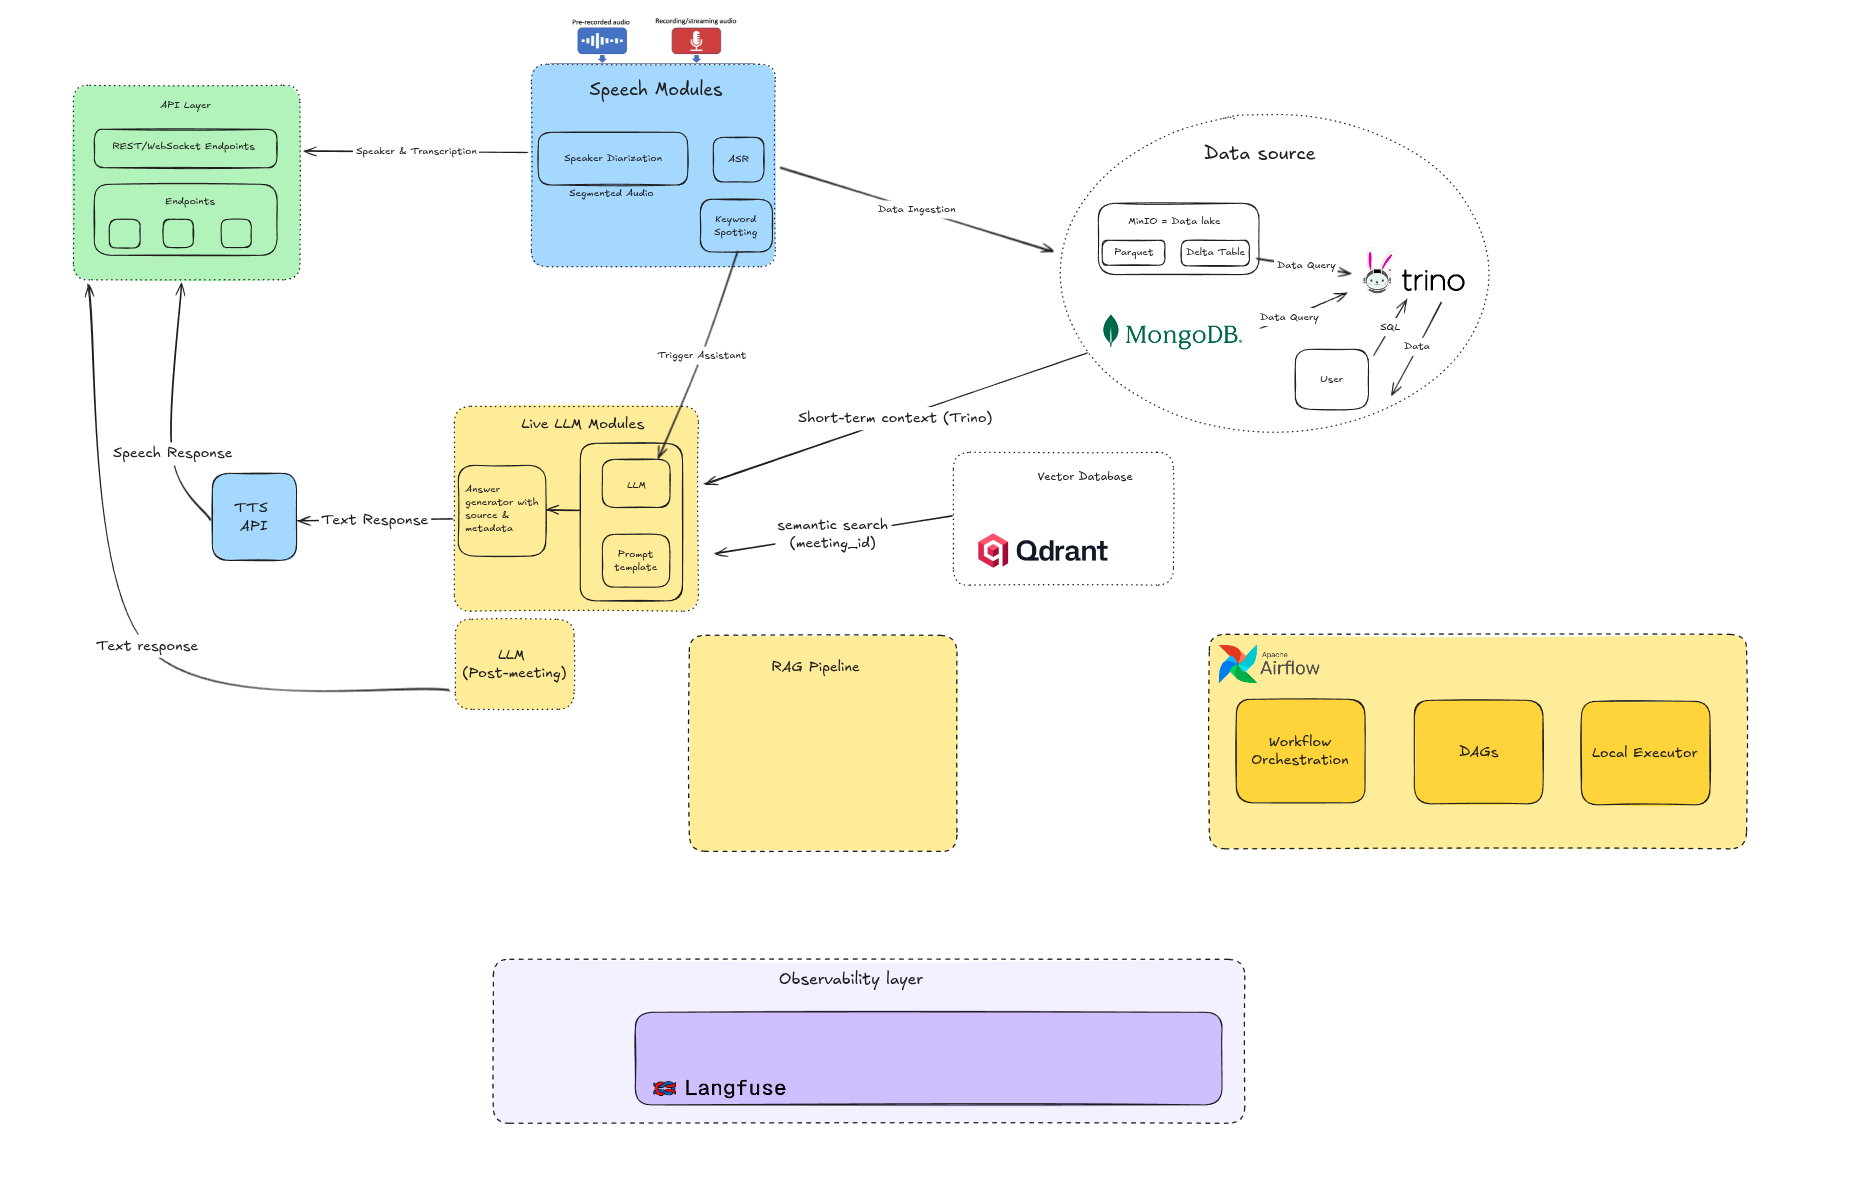
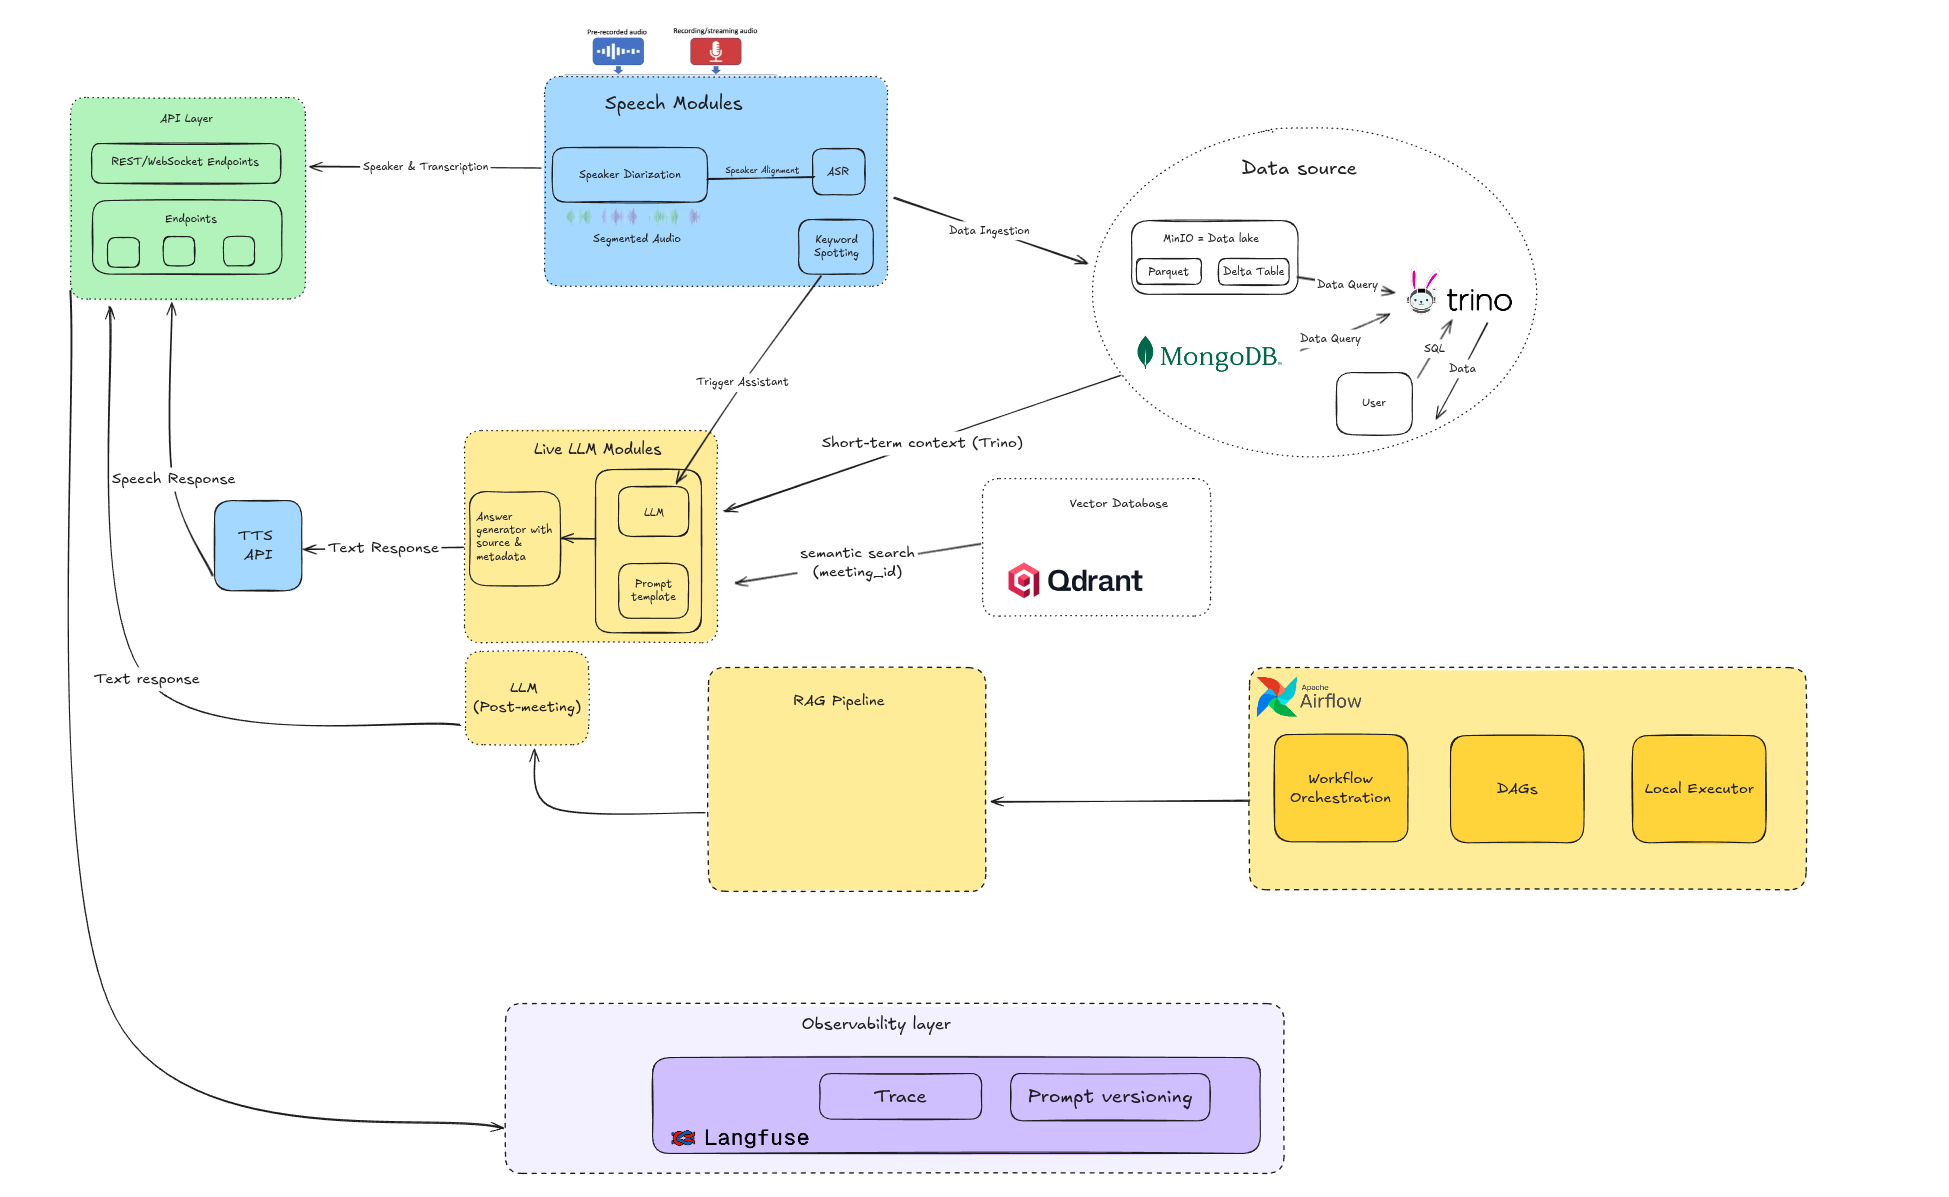
TODO: Data Ingestion Pipeline

diff --git a/controller/config.py b/controller/config.py
@@ -1,0 +1,66 @@
+import os
+from pathlib import Path
+from typing import Literal
+
+from pydantic import Field, field_validator
+from pydantic_settings import BaseSettings, SettingsConfigDict
+
+PROJECT_ROOT = Path(__file__).parent.parent
+ENV_FILE_PATH = PROJECT_ROOT / ".env"
+
+class BaseConfigSettings(BaseSettings):
+    model_config = SettingsConfigDict(
+        env_file=[".env", str(ENV_FILE_PATH)],
+        extra="ignore",
+        frozen=True,
+        env_nested_delimiter="__",
+        case_sensitive=False,
+    )
+
+
+class ArxivSettings(BaseConfigSettings):
+    model_config = SettingsConfigDict(
+        env_file=[".env", str(ENV_FILE_PATH)],
+        env_prefix="ARXIV__",
+        extra="ignore",
+        frozen=True,
+        case_sensitive=False,
+    )
+
+    base_url: str = "https://export.arxiv.org/api/query"
+    pdf_cache_dir: str = "./data/arxiv_pdfs"
+    rate_limit_delay: float = 3.0
+    timeout_seconds: int = 30
+    max_results: int = 15
+    search_category: str = "cs.AI"
+    download_max_retries: int = 3
+    download_retry_delay_base: float = 5.0
+    max_concurrent_downloads: int = 5
+    max_concurrent_parsing: int = 1
+
+    namespaces: dict = {
+        "atom": "http://www.w3.org/2005/Atom",
+        "opensearch": "http://a9.com/-/spec/opensearch/1.1/",
+        "arxiv": "http://arxiv.org/schemas/atom",
+    }
+
+    @field_validator("pdf_cache_dir")
+    @classmethod
+    def validate_cache_dir(cls, v: str) -> str:
+        os.makedirs(v, exist_ok=True)
+        return v
+
+
+class PDFParserSettings(BaseConfigSettings):
+    model_config = SettingsConfigDict(
+        env_file=[".env", str(ENV_FILE_PATH)],
+        env_prefix="PDF_PARSER__",
+        extra="ignore",
+        frozen=True,
+        case_sensitive=False,
+    )
+
+    max_pages: int = 30
+    max_file_size_mb: int = 20
+    do_ocr: bool = False
+    do_table_structure: bool = True

diff --git a/controller/post_meeting/arxiv/client.py b/controller/post_meeting/arxiv/client.py
@@ -1,0 +1,5 @@
+#TODO: 
+# 1. Lấy danh sách paper từ arXiv theo category hoặc query tuỳ biến 
+# 2. Lấy paper theo arXiv ID
+# 3. Tải PDF về cache cục bộ kèm retry/backoff
+# 4. Tuân thủ rate-limit của arXiv 

diff --git a/controller/post_meeting/arxiv/factory.py b/controller/post_meeting/arxiv/factory.py
@@ -1,0 +1,1 @@
+#TODO: Create arXiv client
